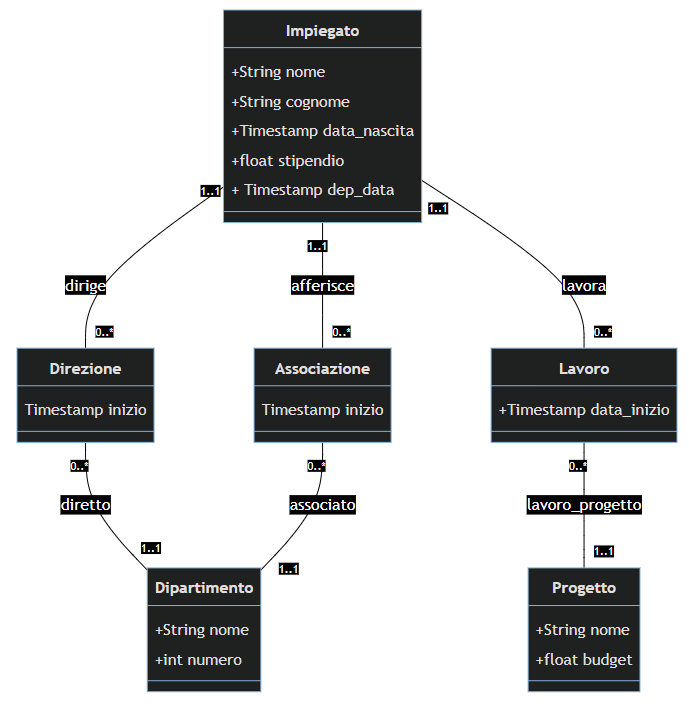
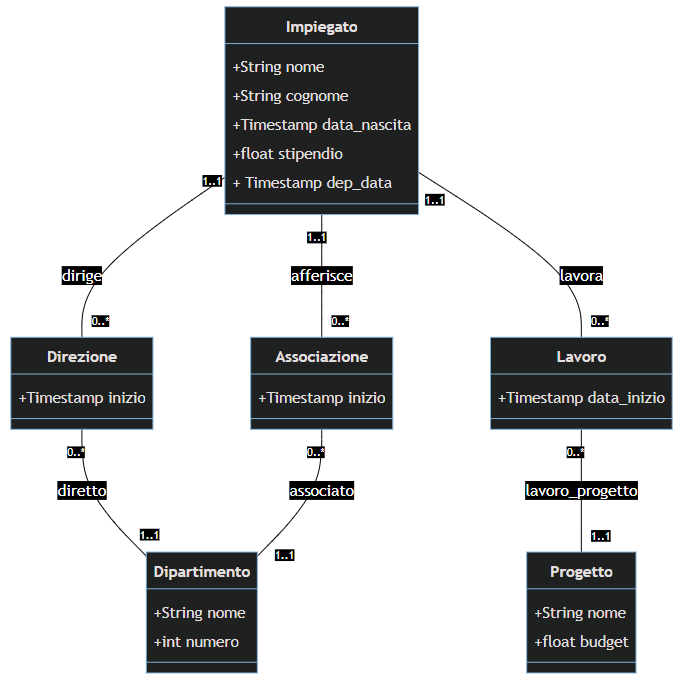
28-02-2024

diff --git a/Secondo Anno/Secondo Semestre/Basi di Dati 2/Progetti/Azienda 1/UML_ita.md b/Secondo Anno/Secondo Semestre/Basi di Dati 2/Progetti/Azienda 1/UML_ita.md
@@ -37,10 +37,10 @@ classDiagram
     Dipartimento : +int numero
     
     class Associazione
-    Associazione : Timestamp inizio
+    Associazione : +Timestamp inizio
 
     class Direzione
-    Direzione : Timestamp inizio
+    Direzione : +Timestamp inizio
 
     class Progetto
     Progetto : +String nome
